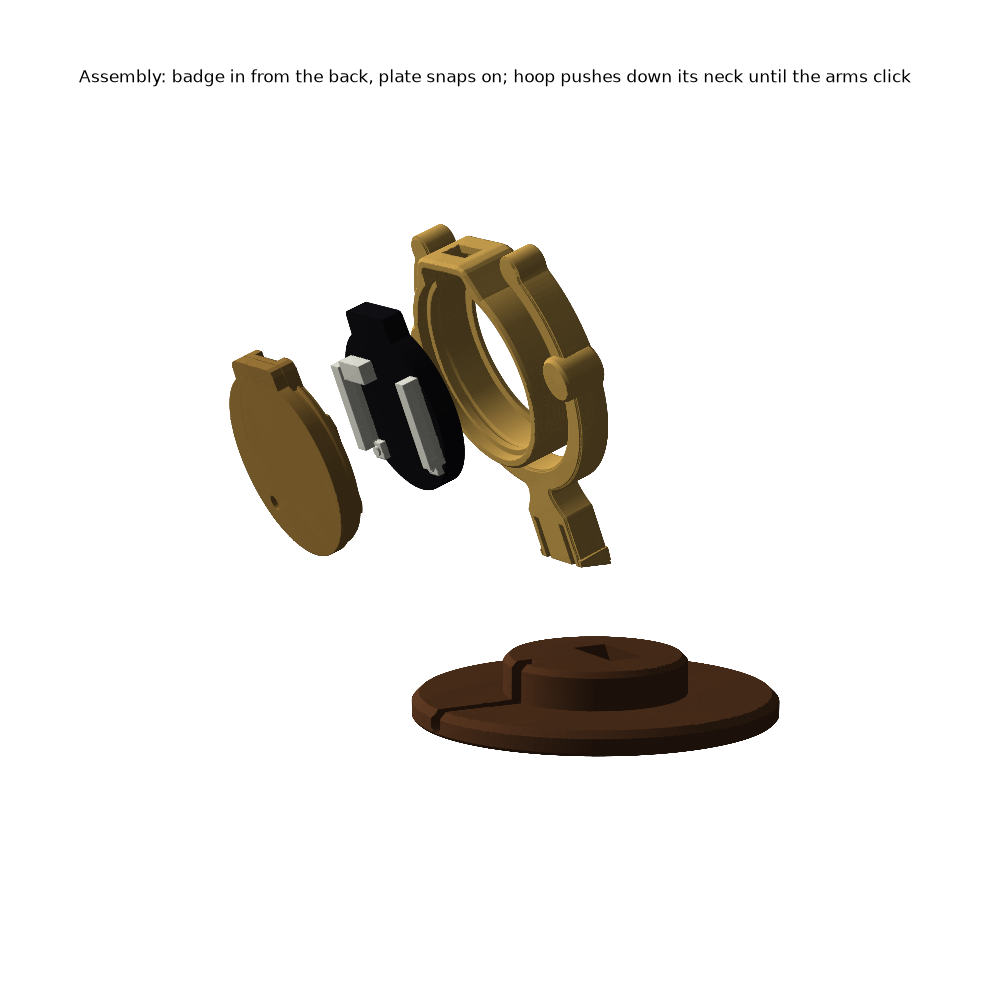
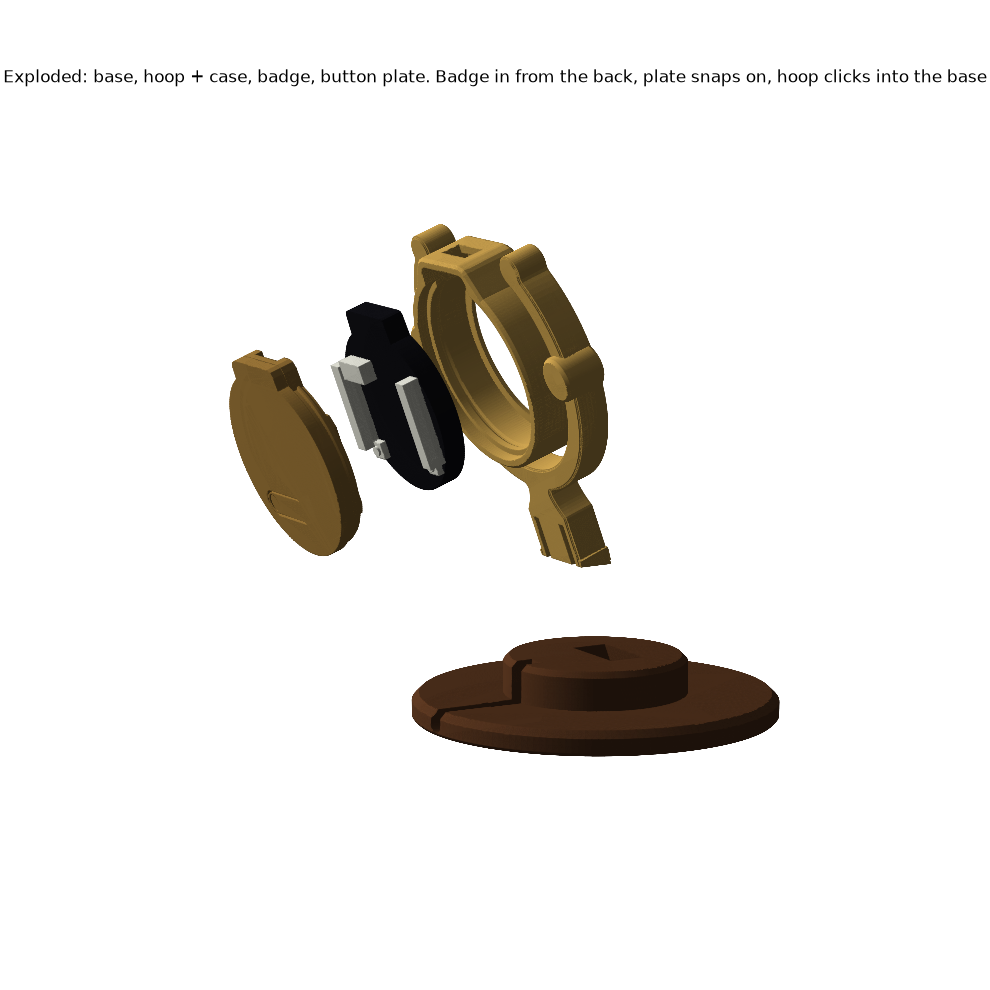
Hoop: exploded render shows the button plate
Claude-Session: https://claude.ai/code/session_01G2nUqFRSgJDyNXsVszfiGa

Changed region(s): [[0.0, 0.0606, 1.0, 0.0909], [0.2727, 0.4848, 0.303, 0.5152]]

diff --git a/pocketwatch/stands/hoop/build_hoop.py b/pocketwatch/stands/hoop/build_hoop.py
@@ -536,7 +536,7 @@ def dial(b):
     return union(ticks), hour + minute, sec_, hub
 
 
-def renders(s, b, c, feats, case, plate_h, base, geo, F, cable, plug, alt):
+def renders(s, b, c, feats, case, plate_h, base, geo, F, cable, plug, alt, plate_btn=None):
     rf = lambda m, L=1.0: m.refine_to_length(L)
     brass, plate_c, dark, white, red, steel, walnut, black, cream = (
         (0.84, 0.67, 0.33), (0.66, 0.50, 0.24), (0.07, 0.07, 0.09), (0.95, 0.95, 0.90), (0.88, 0.22, 0.18),
@@ -596,12 +596,12 @@ def renders(s, b, c, feats, case, plate_h, base, geo, F, cable, plug, alt):
     mv = lambda m, v: m.translate(list(v))
     hoop_up = 34*up
     ex = [(rf(mv(F.W(case), hoop_up)), brass), (rf(mv(F.W(disc_tab), hoop_up + 26*back)), dark),
-          (rf(mv(F.W(plate_h), hoop_up + 46*back)), plate_c), (rf(base, 1.6), walnut)]
+          (rf(mv(F.W(plate_btn if plate_btn is not None else plate_h), hoop_up + 46*back)), plate_c), (rf(base, 1.6), walnut)]
     for f in feats:
         if f.name.startswith(("header", "JST", "BOOT", "RESET")):
             ex.append((rf(mv(F.W(f.solid()), hoop_up + 26*back), 0.8), white))
     render(ex, OUT + "07-exploded.png", elev=10, azim=150, zoom=1.0, light=(0.45, 0.75, 0.5),
-           title="Assembly: badge in from the back, plate snaps on; hoop pushes down its neck until the arms click")
+           title="Exploded: base, hoop + case, badge, button plate. Badge in from the back, plate snaps on, hoop clicks into the base")
 
 
 s_screw = {}
@@ -671,10 +671,11 @@ def main():
     for clr, tag in ((U.PLATE_DISC_CLR, "button"), (U.PLATE_DISC_CLR_ROOMY, "button, roomy")):
         _, _, plate_b, _ = U.build(b, c, clr, button=True)
         export(plate_b, STL + f"Hoop stand - back plate ({tag}).stl", flip)
+        if tag == "button": plate_btn = plate_b
     tot = bbox(F.W(case) + base + body)
     print(f"\nStanding: {tot[1, 0] - tot[0, 0]:.0f} wide x {tot[1, 1] - tot[0, 1]:.0f} deep x {tot[1, 2]:.0f} tall to the plug top")
     if "--no-render" not in sys.argv:
-        renders(s, b, c, feats, case, plate_h, base, geo, F, cable, (body, shell, boot), (a_case, a_base))
+        renders(s, b, c, feats, case, plate_h, base, geo, F, cable, (body, shell, boot), (a_case, a_base), plate_btn)
     if FAILS:
         sys.exit("FAILED: " + "; ".join(FAILS))
     print("all checks passed")
